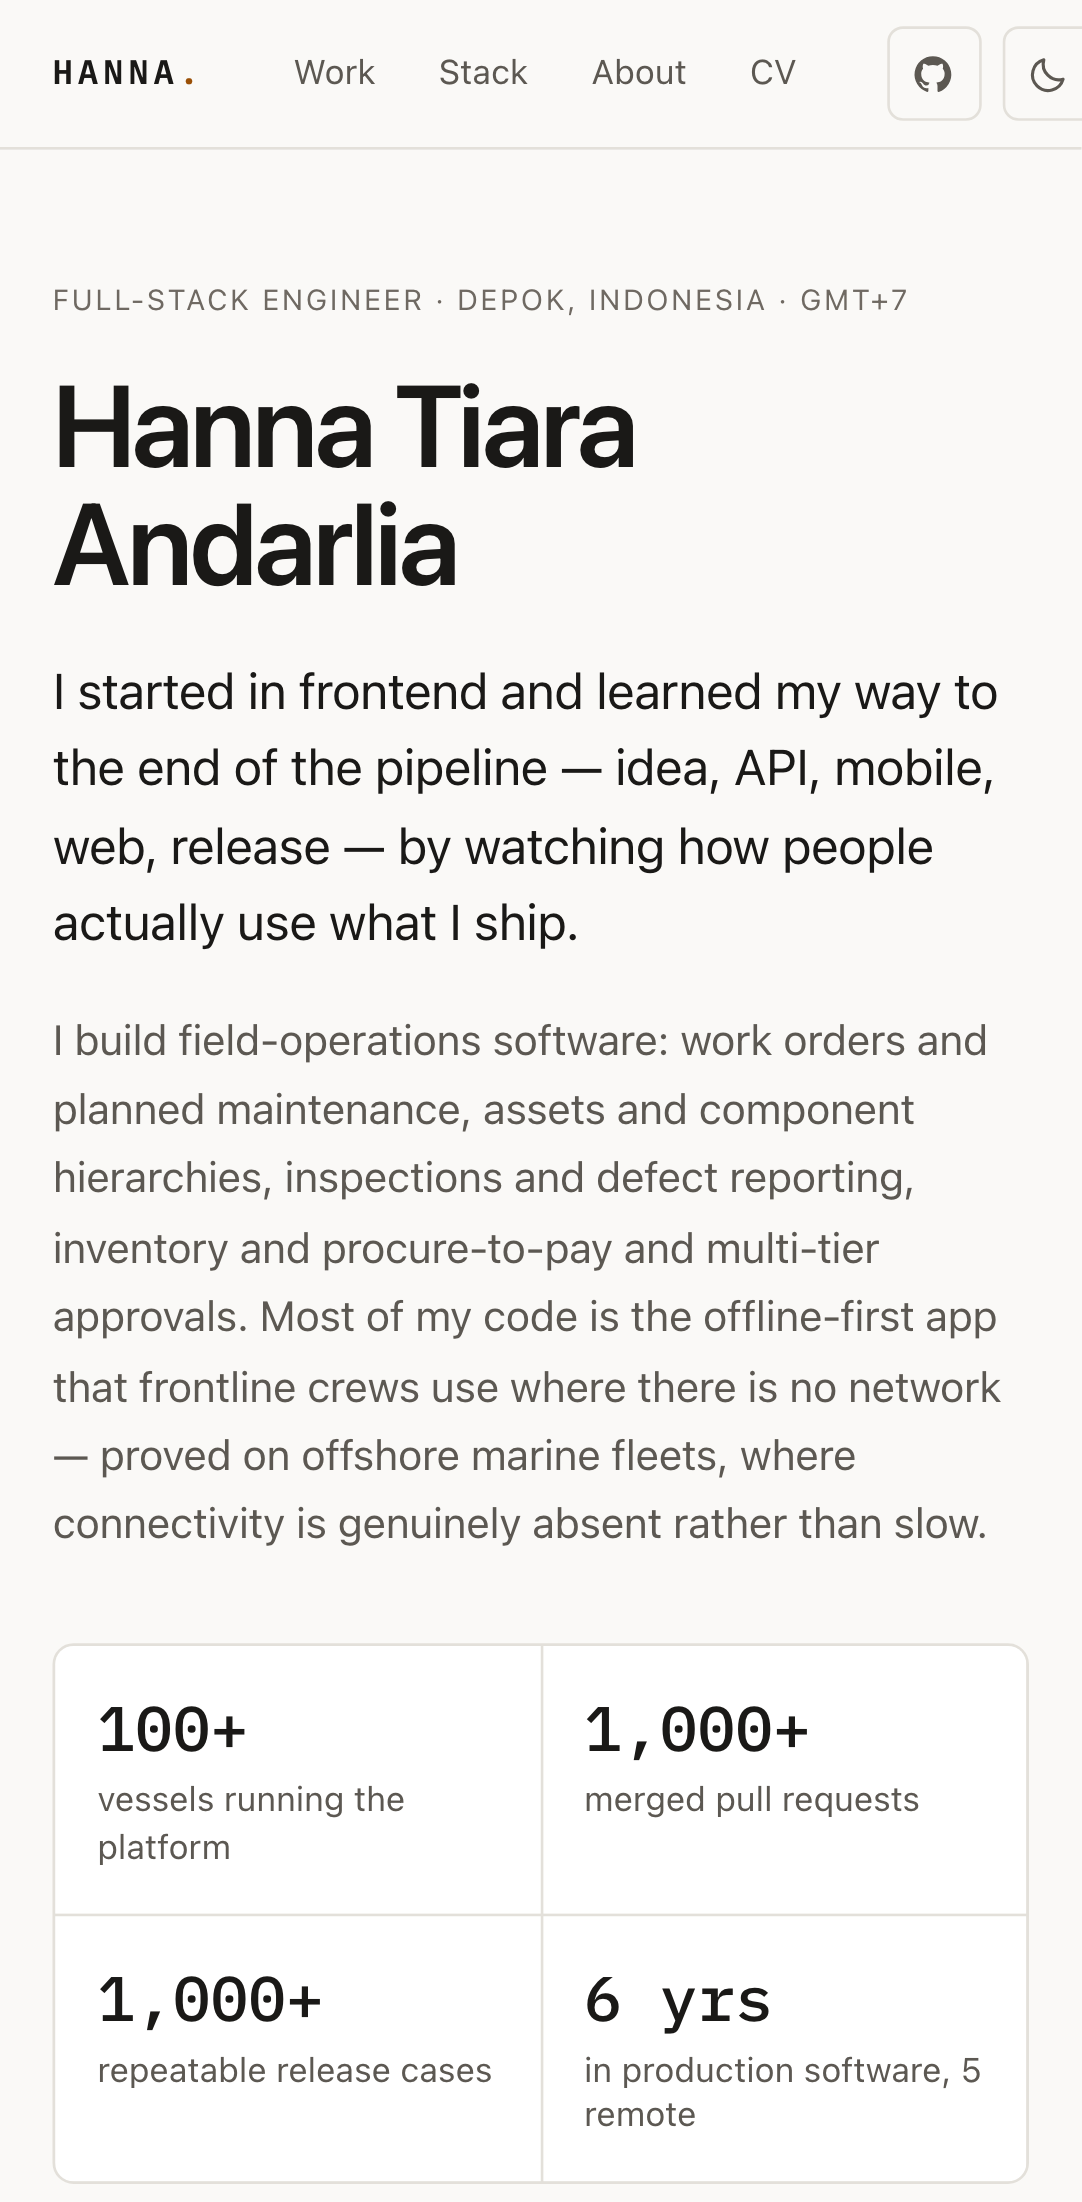
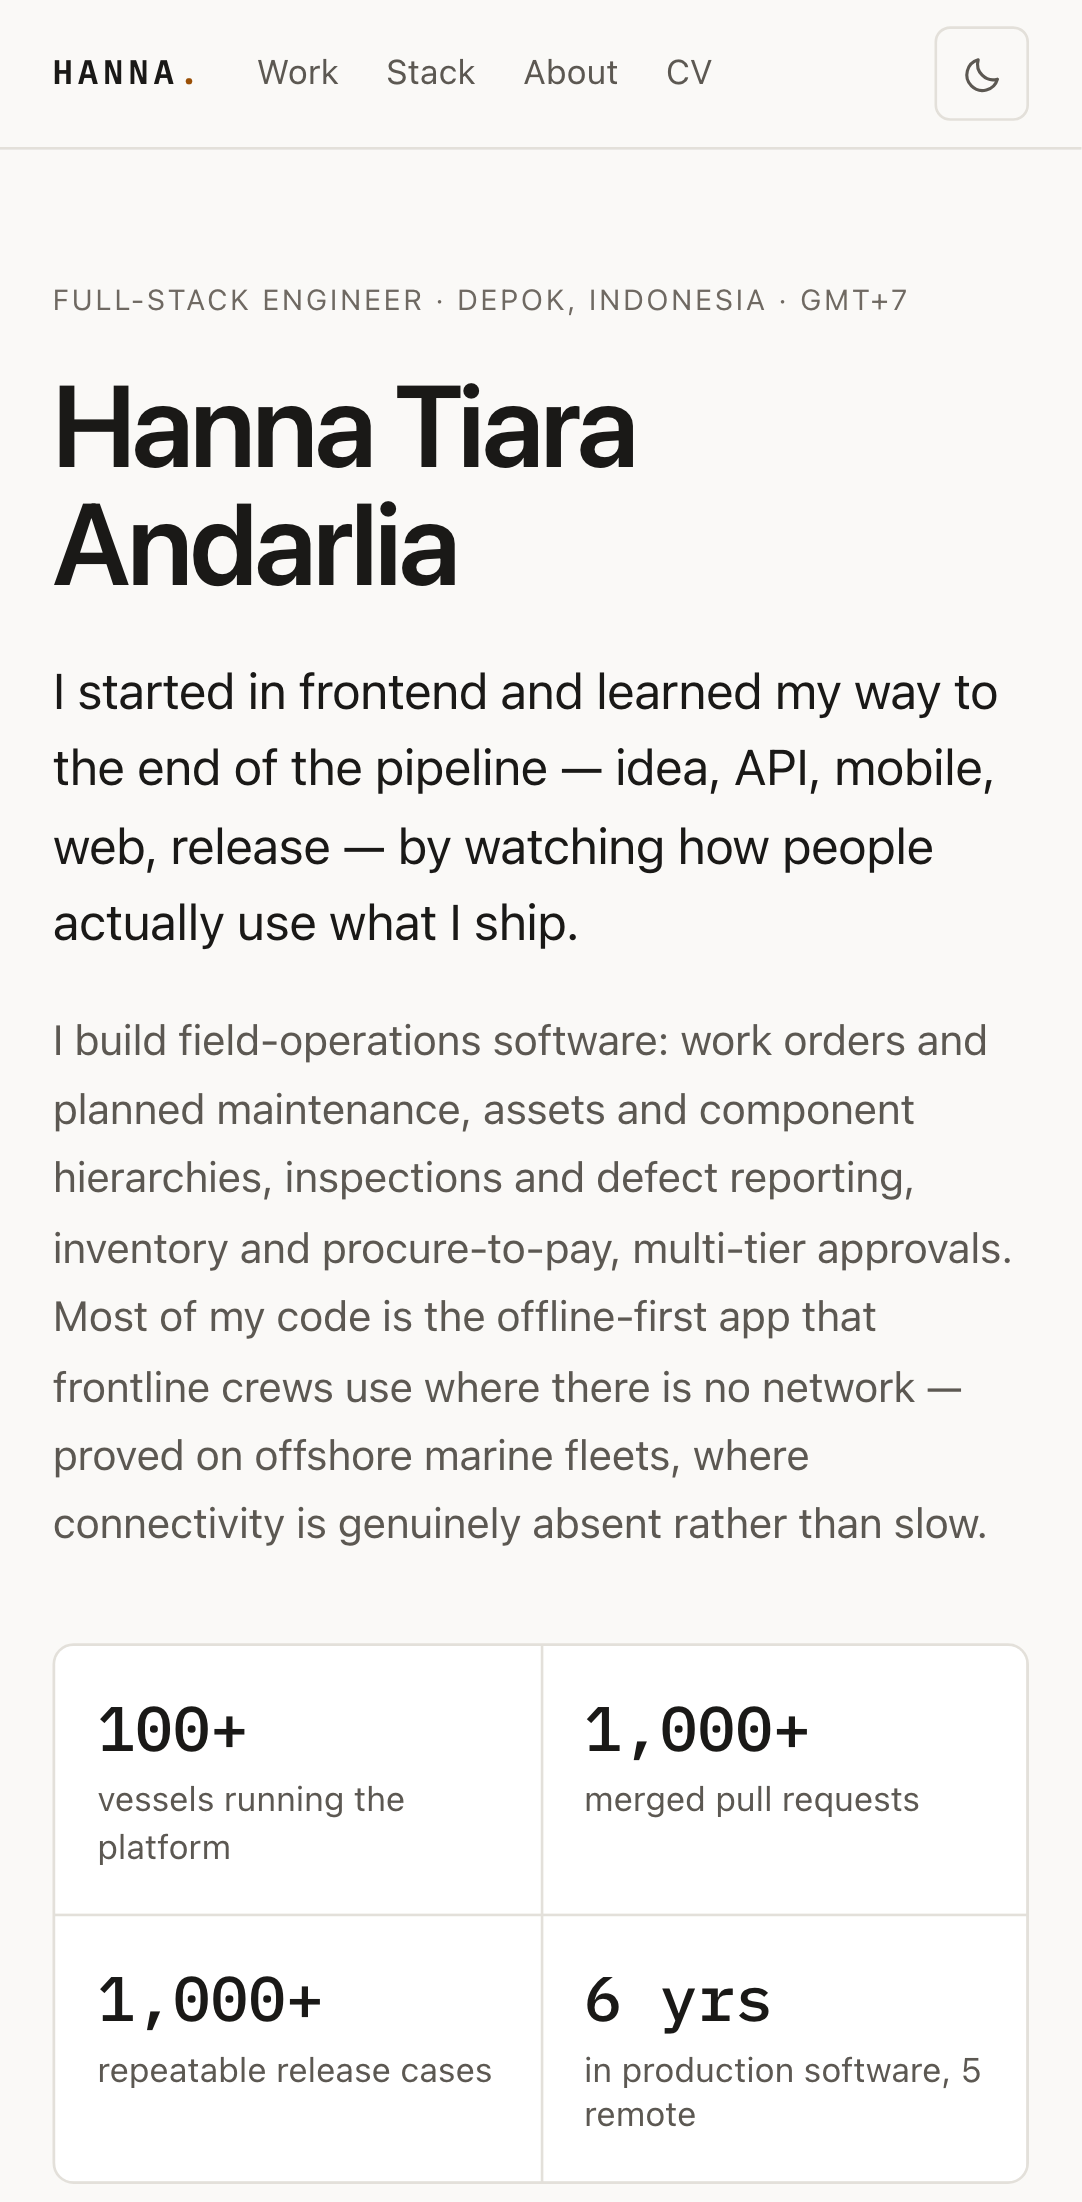
fix: mobile header overflow, redundant case-study summaries, masthead phrasing
At 412px the theme toggle was clipped off the right edge; GitHub moves to the
footer below the sm breakpoint, where it already lives.

Index entries showed the reported quote and then restated it in the summary.
Summaries now open at the divergence, which also reads better as a meta
description.

diff --git a/src/content/case-studies.ts b/src/content/case-studies.ts
@@ -36,7 +36,7 @@ export const caseStudies: readonly CaseStudy[] = [
     context: 'Field-operations platform · offline-first Android app for vessel crews',
     period: '2024–2026',
     summary:
-      'Reported as records reverting. It was not sync frequency — offline drafts had no ownership, so a device that had been away could land stale state on top of newer work.',
+      'Not sync frequency. Offline drafts had no ownership, so a device that had been away could land stale state on top of newer work — and nothing in the model could make that write fail.',
     reported: 'Records keep reverting.',
     actually: [
       'The obvious reading was sync frequency: devices at sea go days without a connection, so of course they fall behind. Syncing more often would have made the window smaller and the class of bug identical.',
@@ -65,7 +65,7 @@ export const caseStudies: readonly CaseStudy[] = [
     context: 'Field-operations platform · procure-to-pay, ERP integration',
     period: '2025–2026',
     summary:
-      'Reported as rounding errors. Tax and discount lived at several levels at once, so every level was individually defensible and the total was still wrong.',
+      'Not rounding. Tax and discount lived at several levels at once, so every level was individually defensible and the total was still wrong — collapsed into one ladder with no second rung.',
     reported: 'There are rounding errors on the requisition totals.',
     actually: [
       'Rounding was a reasonable first guess, because the discrepancies were small and the arithmetic at each level looked right when you checked it.',
@@ -93,7 +93,7 @@ export const caseStudies: readonly CaseStudy[] = [
     context: 'Field-operations platform · release quality and authorization',
     period: '2025–2026',
     summary:
-      'Inherited authorization gaps meant a passing suite proved nothing. Fixing them first would have blocked every release for months, so they were quarantined by name instead.',
+      'Inherited authorization gaps meant a passing suite proved nothing. Fixing them first would have blocked every release for months, so they were frozen by name — old debt cannot pass, new regressions show the day they land.',
     reported: 'All tests are green — we should be fine to release.',
     actually: [
       'The suite was green because it was not looking. There was no deterministic gate, and authorization in particular had a large set of pre-existing gaps that predated me.',
@@ -121,7 +121,7 @@ export const caseStudies: readonly CaseStudy[] = [
     context: 'Field-operations platform · approvals, specification to rollout',
     period: '2025–2026',
     summary:
-      'The obvious fix was a branch per customer. Instead the business configures its own ladders, spending authority and price guards — and a new customer costs no code.',
+      'The obvious fix was a branch per customer, which compounds forever. Instead the business configures its own ladders, spending authority and price guards, and a new customer costs no code at all.',
     reported: 'Approvals are wrong for this customer.',
     actually: [
       'The first customer had one approver, hard-coded. The second customer had a hierarchy, and the request arrived as a bug about their approvals being wrong.',
@@ -150,7 +150,7 @@ export const caseStudies: readonly CaseStudy[] = [
     context: 'Field-operations platform · offline mobile to online back-office',
     period: '2026',
     summary:
-      'A whole procure-to-pay module moved from the offline app to the web dashboard, AI-assisted, inside gates that already existed — with divergences recorded rather than discovered later.',
+      'No specification existed, only flows shaped by an offline device. Porting them faithfully would have carried offline assumptions into a place where they are wrong, so the workflows were re-decided at the pace of a migration.',
     reported: 'Procurement should live in the web app, not on the vessel.',
     actually: [
       'Nothing was written down. The specification was the existing flows, and the existing flows had been shaped by an offline device — draft-first, one user at a time, sync-aware.',
@@ -176,7 +176,7 @@ export const caseStudies: readonly CaseStudy[] = [
     context: 'Clinical mobile app · Kotlin and Swift to React Native',
     period: '2021–2023',
     summary:
-      'The defect list looked like two sets of platform bugs. It was one product implemented twice and drifting — so the platforms were unified onto a single codebase.',
+      'The defect list looked like two sets of platform bugs. It was one product implemented twice and drifting, so closing defects could never catch up — the platforms were unified onto one codebase instead.',
     reported: 'Android and iOS each have their own list of bugs.',
     actually: [
       'Read as two platform problems, it is two backlogs and two engineers. Read as one product implemented twice, it is a drift problem — and drift keeps producing new defects no matter how many you close.',

diff --git a/src/components/site-header.tsx b/src/components/site-header.tsx
@@ -18,7 +18,7 @@ export function SiteHeader() {
 
   return (
     <header className="sticky top-0 z-40 border-b border-line bg-bg/85 backdrop-blur-sm">
-      <div className="mx-auto flex h-14 max-w-5xl items-center gap-6 px-5 sm:px-8">
+      <div className="mx-auto flex h-14 max-w-5xl items-center gap-3 px-5 sm:gap-6 sm:px-8">
         <Link
           href="/"
           aria-label={`${identity.name} — home`}
@@ -27,7 +27,7 @@ export function SiteHeader() {
           Hanna<span className="text-signal">.</span>
         </Link>
 
-        <nav aria-label="Main" className="flex flex-1 items-center gap-1">
+        <nav aria-label="Main" className="flex flex-1 items-center gap-0.5 sm:gap-1">
           {routes.map((route) => {
             const active = pathname === route.href || pathname.startsWith(`${route.href}/`);
             return (
@@ -35,7 +35,7 @@ export function SiteHeader() {
                 key={route.href}
                 href={route.href}
                 aria-current={active ? 'page' : undefined}
-                className={`rounded-md px-2.5 py-1.5 text-meta transition-colors ${
+                className={`rounded-md px-2 py-1.5 text-meta transition-colors sm:px-2.5 ${
                   active ? 'text-ink' : 'text-ink-muted hover:text-ink'
                 }`}
               >
@@ -54,7 +54,7 @@ export function SiteHeader() {
             target="_blank"
             rel="noreferrer"
             aria-label="GitHub profile (opens in a new tab)"
-            className="flex h-9 w-9 items-center justify-center rounded-md border border-line text-[1.05rem] text-ink-muted transition-colors hover:border-line-strong hover:text-ink"
+            className="hidden h-9 w-9 items-center justify-center rounded-md border border-line text-[1.05rem] text-ink-muted transition-colors hover:border-line-strong hover:text-ink sm:flex"
           >
             <GitHubIcon />
           </a>

diff --git a/src/app/page.tsx b/src/app/page.tsx
@@ -21,9 +21,9 @@ export default function HomePage() {
         <p className="mt-5 max-w-2xl text-pretty text-lead text-ink">{brandSentence}</p>
 
         <p className="mt-4 max-w-2xl text-body text-ink-muted">
-          I build {positioning.domain}: {positioning.surfaces.slice(0, 3).join(', ')}, {positioning.surfaces[3]} and{' '}
-          {positioning.surfaces[4]}. Most of my code is the offline-first app that frontline crews use where there is
-          no network — proved on {positioning.proof}, where connectivity is genuinely absent rather than slow.
+          I build {positioning.domain}: {positioning.surfaces.join(', ')}. Most of my code is the offline-first app
+          that frontline crews use where there is no network — proved on {positioning.proof}, where connectivity is
+          genuinely absent rather than slow.
         </p>
 
         <div className="mt-8">
